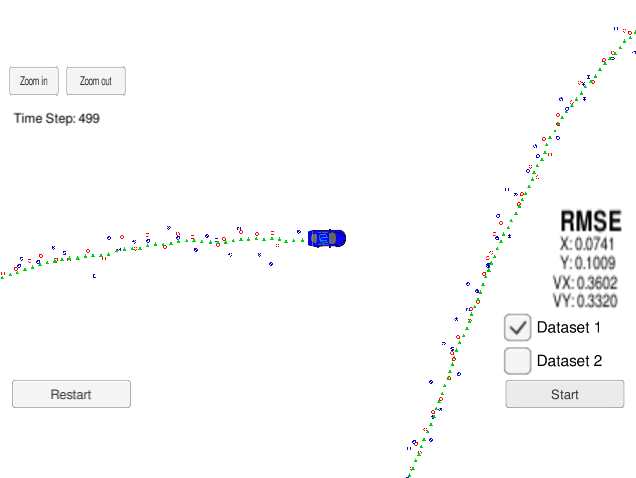
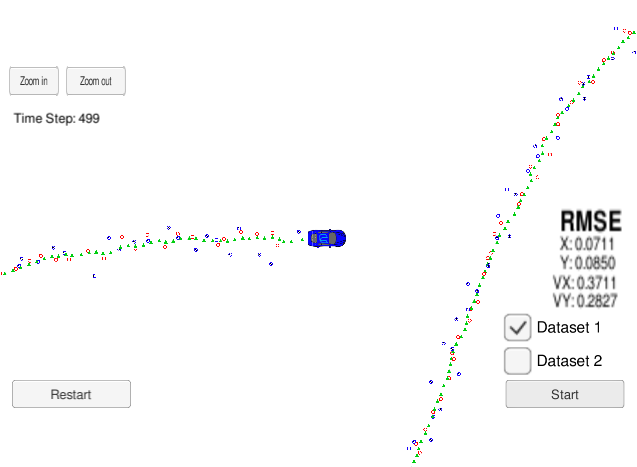
...

diff --git a/src/ukf.cpp b/src/ukf.cpp
@@ -37,10 +37,10 @@ UKF::UKF() {
 
 
   // Process noise standard deviation longitudinal acceleration in m/s^2
-  std_a_ = 0.2;
+  std_a_ = 2;
 
   // Process noise standard deviation yaw acceleration in rad/s^2
-  std_yawdd_ = 0.2;
+  std_yawdd_ = 0.8;
   
   //DO NOT MODIFY measurement noise values below these are provided by the sensor manufacturer.
   // Laser measurement noise standard deviation position1 in m
@@ -82,9 +82,9 @@ UKF::UKF() {
 
   P_ << 1, 0, 0, 0, 0,
         0, 1, 0, 0, 0,
-        0, 0, 1000, 0, 0,
-        0, 0, 0, 1000, 0,
-        0, 0, 0, 0, 1000;
+        0, 0, 50, 0, 0,
+        0, 0, 0, 50, 0,
+        0, 0, 0, 0, 50;
 
 
 }
